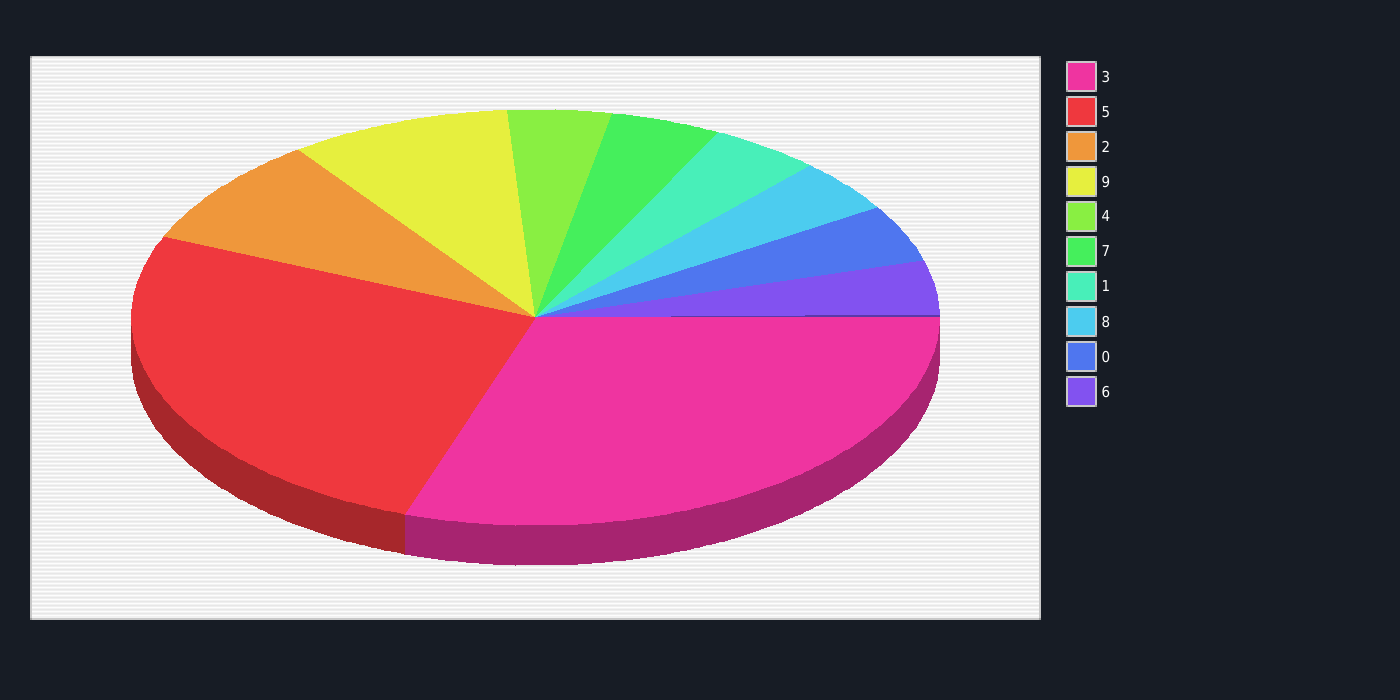
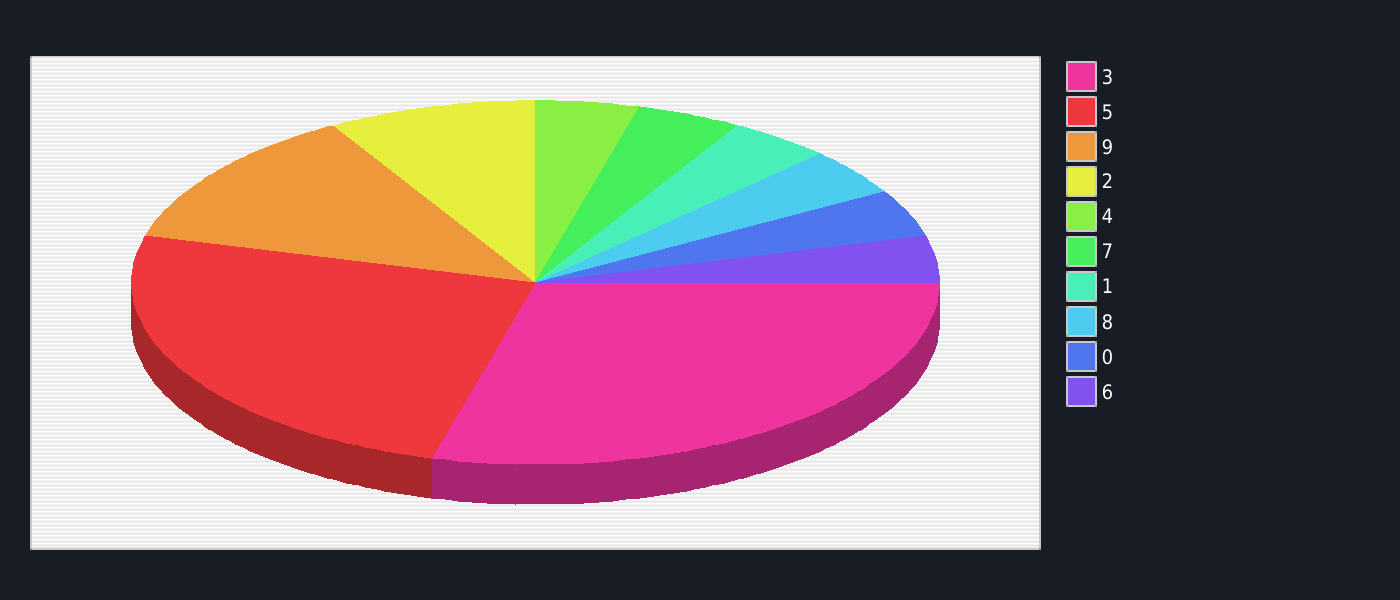
Added bar chart for count of fan direction

diff --git a/includes/CTEC3110-Coursework/app/src/MessageAnalyticsModel.php b/includes/CTEC3110-Coursework/app/src/MessageAnalyticsModel.php
@@ -47,6 +47,12 @@ class MessageAnalyticsModel
         $this->makePieChart();
     }
 
+    public function createBarChart()
+    {
+        $this->createChartDetails('message-barchart.png');
+        $this->makeBarChart();
+    }
+
     public function getLineChartDetails()
     {
         return $this->output_chart_details;
@@ -99,11 +105,11 @@ class MessageAnalyticsModel
 
     private function makePieChart()
     {
-        $this->log->info('Attempting to create line chart.');
+        $this->log->info('Attempting to create pie chart.');
 
         $series_data = $this->stored_message_data;
 
-        $chart = new \PieChart(1400, 700);
+        $chart = new \PieChart(1400, 600);
 
         $chart->getPlot()->getPalette()->setPieColor(array(
             new \Color(239, 52, 160),
@@ -129,6 +135,40 @@ class MessageAnalyticsModel
         {
             $this->log->info('Attempting add point to pie chart: ' . $keypad . ' ' . $keypad_value);
             $series1->addPoint(new \Point($keypad, $keypad_value));
+        }
+
+        $chart->setDataSet($series1);
+
+        $chart->setTitle('');
+        $chart->getPlot()->setGraphCaptionRatio(0.75);
+
+        $chart->render($this->output_chart_path_and_name);
+    }
+
+    private function makeBarChart()
+    {
+        $this->log->info('Attempting to create bar chart.');
+
+        $series_data = $this->stored_message_data;
+
+        $chart = new \VerticalBarChart(1400, 700);
+
+        $series1 = new \XYDataSet();
+        $fan_inputs = [];
+
+        $chart->getPlot()->getPalette()->setBarColor(array(
+            new \Color(240, 53, 160),
+            new \Color(178, 69, 240)));
+
+        foreach ($series_data as $data_row) {
+            array_push($fan_inputs, $data_row['fan']);
+        }
+
+        foreach(array_count_values($fan_inputs) as $fan => $fan_value)
+        {
+            $fan = $fan == '0' ? 'Backwards' : 'Forwards';
+            $this->log->info('Attempting add point to bar chart: ' . $fan . ' ' . $fan_value);
+            $series1->addPoint(new \Point($fan, $fan_value));
         }
 
         $chart->setDataSet($series1);

diff --git a/includes/CTEC3110-Coursework/app/routes/analytics.php b/includes/CTEC3110-Coursework/app/routes/analytics.php
@@ -24,6 +24,7 @@ $app->get('/analytics', function (Request $request, Response $response) use ($ap
 
     $line_chart = createChart($app, $message_list, 'line');
     $pie_chart = createChart($app, $message_list, 'pie');
+    $bar_chart = createChart($app, $message_list, 'bar');
 
     $html_output = $this->view->render($response,
         'charts.html.twig',
@@ -39,7 +40,8 @@ $app->get('/analytics', function (Request $request, Response $response) use ($ap
             'page_heading_2' => 'Analytics',
             'page_text' => 'M2M message Analytics', // no longer exists
             'line_chart' => '../' . $line_chart,
-            'pie_chart' => '../' . $pie_chart
+            'pie_chart' => '../' . $pie_chart,
+            'bar_chart' => '../' . $bar_chart
         ]
     );
 
@@ -62,6 +64,10 @@ function createChart($app, array $message_data, $type)
     else if($type == 'pie')
     {
         $messageChartModel->createPieChart();
+    }
+    else if($type == 'bar')
+    {
+        $messageChartModel->createBarChart();
     }
 
     $chart_details = $messageChartModel->getLineChartDetails();

diff --git a/includes/libchart/classes/view/text/Text.php b/includes/libchart/classes/view/text/Text.php
@@ -52,7 +52,7 @@
          * @param string font file name
          * @param bitfield text alignment
          */
-        public function printText($img, $px, $py, $color, $text, $fontFileName, $align = 0) {
+        public function printText($img, $px, $py, $color, $text, $fontFileName, $align = 0, $text_size = 11) {
             if (!($align & $this->HORIZONTAL_CENTER_ALIGN) && !($align & $this->HORIZONTAL_RIGHT_ALIGN)) {
                 $align |= $this->HORIZONTAL_LEFT_ALIGN;
             }
@@ -61,7 +61,7 @@
                 $align |= $this->VERTICAL_TOP_ALIGN;
             }
 
-            $fontSize = 11;
+            $fontSize = $text_size;
             $lineSpacing = 1;
 
              list ($llx, $lly, $lrx, $lry, $urx, $ury, $ulx, $uly) = imageftbbox($fontSize, 0, $fontFileName, $text, array("linespacing" => $lineSpacing));

diff --git a/includes/libchart/classes/view/caption/Caption.php b/includes/libchart/classes/view/caption/Caption.php
@@ -75,7 +75,7 @@
                 $primitive->outlinedBox($boxX1, $boxY1, $boxX2, $boxY2, $palette->axisColor[0], $palette->axisColor[1]);
                 imagefilledrectangle($img, $boxX1 + 2, $boxY1 + 2, $boxX2 - 2, $boxY2 - 2, $color->getColor($img));
 
-                $text->printText($img, $boxX2 + 5, $boxY1 + $this->labelBoxHeight / 2, $this->plot->getTextColor(), $label, $text->fontCondensed, $text->VERTICAL_CENTER_ALIGN);
+                $text->printText($img, $boxX2 + 5, $boxY1 + $this->labelBoxHeight / 2, $this->plot->getTextColor(), $label, $text->fontCondensed, $text->VERTICAL_CENTER_ALIGN, 15);
 
                 $i++;
             }

diff --git a/includes/libchart/classes/view/chart/PieChart.php b/includes/libchart/classes/view/chart/PieChart.php
@@ -34,7 +34,7 @@
          */
         public function PieChart($width = 600, $height = 250) {
             parent::Chart($width, $height);
-            $this->plot->setGraphPadding(new Padding(15, 10, 30, 30));
+            $this->plot->setGraphPadding(new Padding(15, 10, 0, 30));
         }
 
         /**
